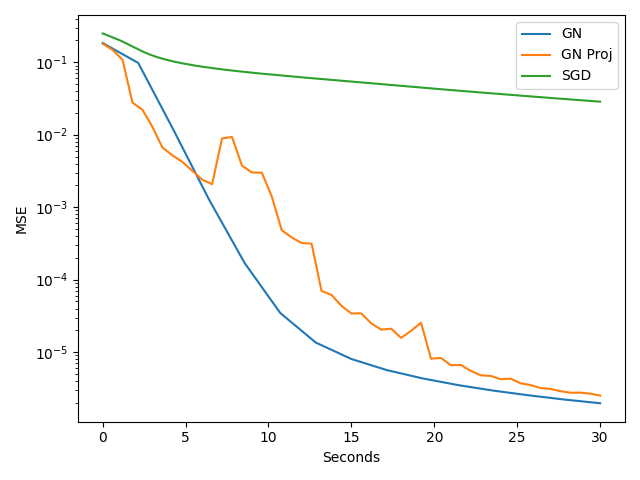
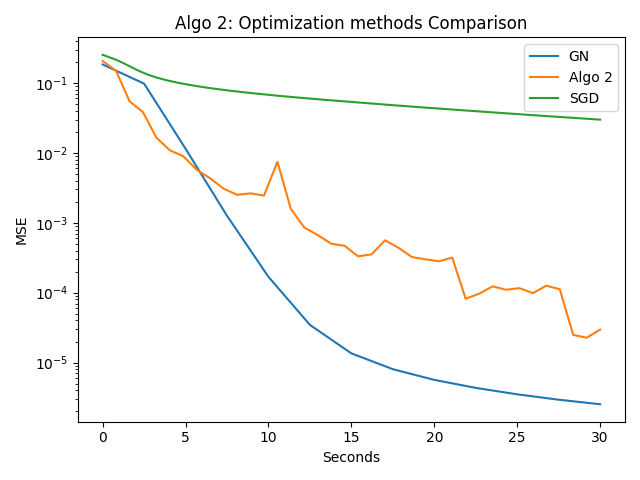
Final changes in repository before poster session

diff --git a/mnist_generic_nn.py b/mnist_generic_nn.py
@@ -51,9 +51,9 @@ if __name__ == '__main__':
     print("Train Accuracy GN", get_accuracy(nn_gn, train_X, train_y))
     print("Test Accuracy GN", get_accuracy(nn_gn, test_X, test_y))
     losses = [losses_gn, losses_gn_rand, sgd_losses]
-    labels = ["GN", "GN Proj", "SGD"]
+    labels = ["GN", "Algo 2", "SGD"]
     print(nn_gn.param_count)
-    plot_mult(losses, labels, "plots/FC2Comparison", MAX_TIME, "Optimization methods Comparison")
+    plot_mult(losses, labels, "plots/FC2Comparison", MAX_TIME, "Algo 2: Optimization methods Comparison")
         
 
 

diff --git a/mnist_conv_nn_classifier.py b/mnist_conv_nn_classifier.py
@@ -46,10 +46,10 @@ if __name__ == '__main__':
 
     ## Print results
     losses = [train_errors, sgd_losses]
-    labels = ["Proj. GN", "SGD"]
+    labels = ["Algo 2", "SGD"]
     print("Train Accuracy", get_accuracy(nn_gn, train_X, train_y))
     print("Test Accuracy", get_accuracy(nn_gn, test_X, test_y))
-    plot_mult(losses, labels,  "plots/Classifier10dim", MAX_TIME, "Digit 10dim classification")
+    plot_mult(losses, labels,  "plots/Classifier10dim", MAX_TIME, "Algo 2: Digit 10dim classification")
 
     
 

diff --git a/GN_vs_GNProj.py b/GN_vs_GNProj.py
@@ -49,9 +49,9 @@ if __name__ == '__main__':
     print("Train Accuracy GN", get_accuracy(nn_gn, train_X, train_y))
     print("Test Accuracy GN", get_accuracy(nn_gn, test_X, test_y))
     losses = [losses_gn, losses_gn_rand]
-    labels = ["GN", "GN Proj", ]
+    labels = ["GN", "Algo 2", ]
     print(nn_gn.param_count)
-    plot_mult(losses, labels, "plots/GN_vs_GNproj", MAX_TIME, "GN vs. Proj. GN")
+    plot_mult(losses, labels, "plots/GN_vs_GNproj", MAX_TIME, "GN vs. Algo 2")
         
 
 

diff --git a/compare_backtrack_algo2.py b/compare_backtrack_algo2.py
@@ -51,7 +51,7 @@ if __name__ == '__main__':
     losses = [losses_gn_backtrack, losses_gn]
     labels = ["With Backtrack", "Without Backtrack"]
     print(nn_gn.param_count)
-    plot_mult(losses, labels, "plots/Backtrackcomparison", MAX_TIME, "Backtracking Comparison")
+    plot_mult(losses, labels, "plots/Backtrackcomparison", MAX_TIME, "Algo 2 Backtracking Comparison")
         
 
 

diff --git a/batch_size_comparison.py b/batch_size_comparison.py
@@ -45,7 +45,7 @@ if __name__ == '__main__':
     
     labels = [f"Batch size: {bs}" for bs in batch_sizes]
     print(nn_gn.param_count)
-    plot_mult(losses, labels, "plots/Batch_size_comp", MAX_TIME, "Batch Size comparison")
+    plot_mult(losses, labels, "plots/Batch_size_comp", MAX_TIME, "Algo 2: Batch Size comparison")
         
 
 
